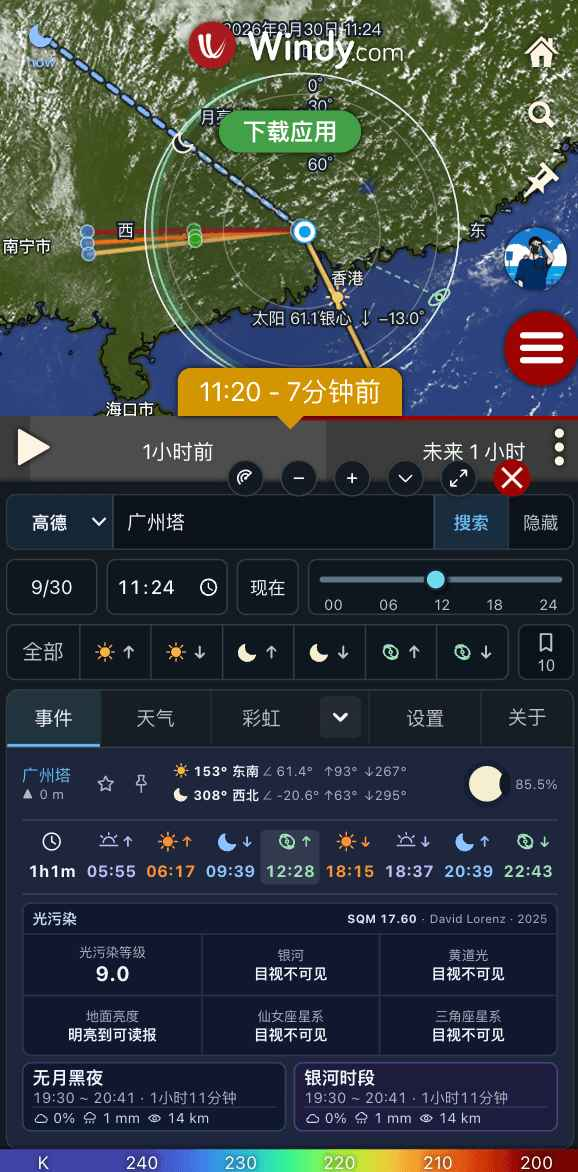
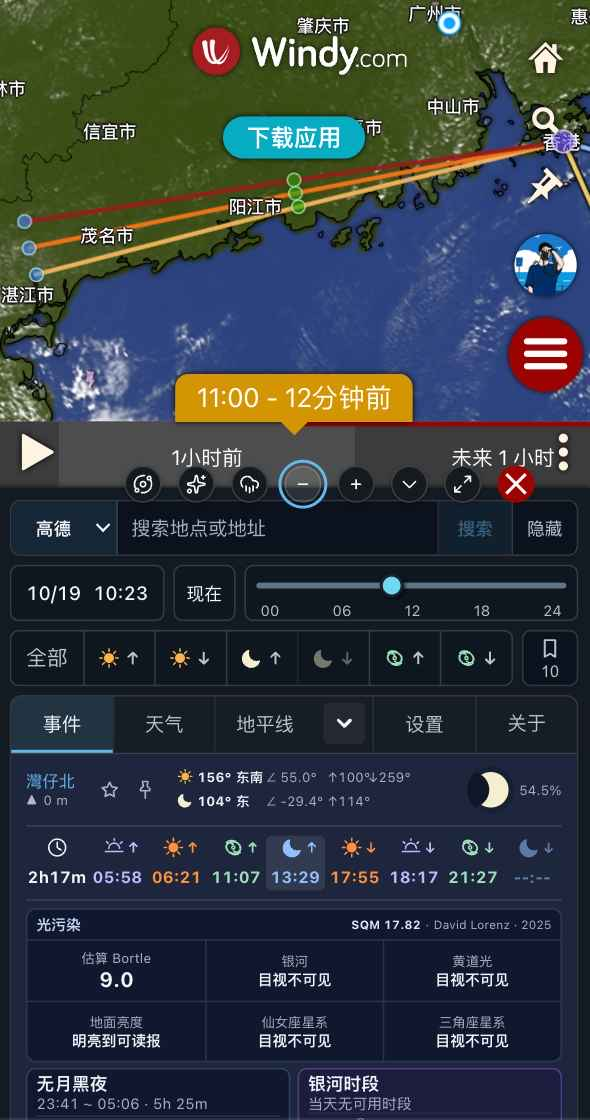
release: 发布 0.12.0 并更新插件截图与双语说明

diff --git a/src/betaReleaseNotesBuild.test.ts b/src/betaReleaseNotesBuild.test.ts
@@ -2,7 +2,7 @@ import { describe, expect, it } from 'vitest';
 
 import { checkPluginUpdate } from './pluginUpdate';
 
-import formalNotesSource from '../release-notes/0.11.4.json?raw';
+import formalNotesSource from '../release-notes/0.12.0.json?raw';
 import betaNotesSource from '../release-notes/beta.json?raw';
 import packageSource from '../package.json?raw';
 import pluginSource from './plugin.svelte?raw';
@@ -19,10 +19,8 @@ describe('beta release notes development asset', () => {
         const formalNotes = JSON.parse(formalNotesSource) as typeof notes;
 
         expect(notes.version).toBe('0.12.0');
-        expect(notes.releasedAt).toBe('2026-10-18');
-        // Development notes evolve independently of the immutable last formal release.
-        expect(formalNotes.version).toBe('0.11.4');
-        expect(formalNotes.releasedAt).toBe('2026-10-13');
+        expect(notes.releasedAt).toBe('2026-10-19');
+        expect(formalNotes).toEqual(notes);
         expect(notes.zh.items.length).toBeGreaterThan(0);
         expect(notes.en.items.length).toBeGreaterThan(0);
         expect(pluginSource).toContain("import betaReleaseNotesUrl from 'virtual:beta-release-notes-url';");
@@ -40,7 +38,7 @@ describe('beta release notes development asset', () => {
 /** Exercise real release files through the same parser used by installed plugins. */
 describe('release note publishing contract', () => {
     const sources = import.meta.glob('../release-notes/*.json', { query: '?raw', import: 'default', eager: true });
-    it.each(['0.9.1', '0.10.1', '0.10.2', '0.10.3', '0.10.4', '0.11.0', '0.11.1', '0.11.2', '0.11.3', '0.11.4'])('loads the full current snapshot for installed %s', async currentVersion => {
+    it.each(['0.9.1', '0.10.1', '0.10.2', '0.10.3', '0.10.4', '0.11.0', '0.11.1', '0.11.2', '0.11.3', '0.11.4', '0.12.0'])('loads the full current snapshot for installed %s', async currentVersion => {
         const manifest = JSON.parse(packageSource);
         const requested: string[] = [];
         const base = `https://raw.githubusercontent.com/bytepoem/windy-plugin-sun-moon-path/update-metadata/${manifest.version}/`;
@@ -55,13 +53,13 @@ describe('release note publishing contract', () => {
                 if (address.endsWith('/latest.json')) {
                     return new Response(JSON.stringify({ ...manifest, notesUrl: `./${manifest.version}/notes.json` }), { status: 200 });
                 }
-                const seriesNotes = Object.entries(sources).filter(([path]) => /0\.11\.[0-4]\.json$/.test(path)).map(([, source]) => JSON.parse(source as string));
+                const seriesNotes = Object.entries(sources).filter(([path]) => /0\.12\.0\.json$/.test(path)).map(([, source]) => JSON.parse(source as string));
                 return new Response(JSON.stringify({ version: manifest.version, seriesNotes }));
             },
         });
         expect(result.status).toBe(currentVersion === manifest.version ? 'current' : 'available');
         expect(result.notesStatus).toBe('loaded');
-        expect(result.seriesNotes.map(note => note.version)).toEqual(['0.11.4', '0.11.3', '0.11.2', '0.11.1', '0.11.0']);
+        expect(result.seriesNotes.map(note => note.version)).toEqual(['0.12.0']);
         expect(requested.slice(1)).toEqual([`${base}notes.json`]);
     });
 

diff --git a/src/pluginUi.test.ts b/src/pluginUi.test.ts
@@ -274,7 +274,7 @@ describe('plugin astronomy loading presentation', () => {
         expect(aboutSource).toContain('{text.aboutAuthorLabel}');
         expect(aboutSource).toContain('{text.aboutVersionLabel}');
         expect(aboutSource).toContain('{text.aboutCurrentVersionDateLabel}');
-        expect(pluginConfigSource).toContain("export const currentVersionReleasedAt = '2026-10-13';");
+        expect(pluginConfigSource).toContain("export const currentVersionReleasedAt = '2026-10-19';");
         expect(aboutSource).toContain("import config, { currentVersionReleasedAt } from './pluginConfig';");
         expect(aboutSource).toContain('class="about-meta__date"');
         expect(aboutSource).toContain('<time datetime={currentVersionReleasedAt}>{currentVersionReleasedAt}</time>');
@@ -300,7 +300,7 @@ describe('plugin astronomy loading presentation', () => {
         expect(aboutSource).toMatch(
             /:global\(\.sun-path-panel\.mobile_ui\) \.about-update button\s*{[\s\S]*?min-height: 32px;/,
         );
-        expect(pluginConfigSource).toContain("version: '0.11.4'");
+        expect(pluginConfigSource).toContain("version: '0.12.0'");
         expect(pluginSource).toMatch(
             /\.summary-tab__badge\s*{[\s\S]*?white-space: nowrap;[\s\S]*?background: var\(--panel-accent\);/,
         );

diff --git a/src/updateSiteBuild.test.ts b/src/updateSiteBuild.test.ts
@@ -12,7 +12,10 @@ it('generates a complete deploy from real notes without bundling secrets or plug
         const manifest = JSON.parse(await readFile(join(output, 'latest.json'), 'utf8'));
         const snapshot = JSON.parse(await readFile(join(output, manifest.notesUrl), 'utf8'));
         const notes = parseUpdateSnapshot(snapshot, manifest.version);
-        expect(notes.map(note => note.version)).toEqual(['0.11.4', '0.11.3', '0.11.2', '0.11.1', '0.11.0']);
+        expect(notes.map(note => note.version)).toEqual(['0.12.0']);
+        const priorMinor = JSON.parse(await readFile(join(output, '0.11.4/notes.json'), 'utf8'));
+        expect(parseUpdateSnapshot(priorMinor, '0.11.4').map(note => note.version))
+            .toEqual(['0.11.4', '0.11.3', '0.11.2', '0.11.1', '0.11.0']);
         const previous = JSON.parse(await readFile(join(output, '0.10.3/notes.json'), 'utf8'));
         expect(parseUpdateSnapshot(previous, '0.10.3')).toHaveLength(4);
         expect(manifest.pluginUrl).toBe(`https://windy-plugins.com/17629746/windy-plugin-sun-moon-path/${manifest.version}/plugin.min.js`);

diff --git a/src/pluginConfig.ts b/src/pluginConfig.ts
@@ -1,11 +1,11 @@
 import type { ExternalPluginConfig } from '@windy/interfaces.d';
 
 /** Keep this date aligned with the published GitHub Release for the configured version. */
-export const currentVersionReleasedAt = '2026-10-13';
+export const currentVersionReleasedAt = '2026-10-19';
 
 const config: ExternalPluginConfig = {
     name: 'windy-plugin-sun-moon-path',
-    version: '0.11.4',
+    version: '0.12.0',
     icon: '☀',
     title: 'Sun & Moon Path',
     description: '在 Windy 上规划日出、日落、月亮、银河、朝晚霞、火烧云与彩虹拍摄。查看天体方位、升落时刻、天空盘与观测窗口，参考光污染、云层距离和天气信息，比较收藏机位。云层遮挡与彩虹视线均为估算，不保证可见。支持中英文。 Plan photography of the Sun, Moon, Milky Way, sunrise and sunset glow, fiery clouds and rainbows with sky views, event times, light pollution, cloud-distance estimates and weather comparisons. Visibility is not guaranteed.',

diff --git a/README_EN.md b/README_EN.md
@@ -16,12 +16,12 @@ Plan photography of sunrise, sunset, the Moon, Milky Way, sunrise and sunset glo
 
 Update checks use Gitee for mainland China or an unknown network region, and GitHub for other known regions. Proxies may affect detection; failed checks can be retried in About. This describes the current repository; released behavior is listed in the release notes.
 
-Current release: **0.11.4** · [Release notes](https://github.com/bytepoem/windy-plugin-sun-moon-path/releases/tag/0.11.4)
+Current release: **0.12.0** · [Release notes](https://github.com/bytepoem/windy-plugin-sun-moon-path/releases/tag/0.12.0)
 
 Paste this URL into Windy's external plugin loader, then open **Sun & Moon Path**:
 
 ```text
-https://windy-plugins.com/17629746/windy-plugin-sun-moon-path/0.11.4/plugin.min.js
+https://windy-plugins.com/17629746/windy-plugin-sun-moon-path/0.12.0/plugin.min.js
 ```
 
 1. **Choose a location:** click the map or enter WGS84 / GCJ-02 coordinates. Chinese place-name search requires your own map-service API Key in Settings.

diff --git a/README.md b/README.md
@@ -14,12 +14,12 @@
 
 ## 安装与上手
 
-当前发布版本：**0.11.4** · [更新记录](https://github.com/bytepoem/windy-plugin-sun-moon-path/releases/tag/0.11.4)
+当前发布版本：**0.12.0** · [更新记录](https://github.com/bytepoem/windy-plugin-sun-moon-path/releases/tag/0.12.0)
 
 将以下地址填入 Windy 的外部插件加载入口，打开 **Sun & Moon Path**：
 
 ```text
-https://windy-plugins.com/17629746/windy-plugin-sun-moon-path/0.11.4/plugin.min.js
+https://windy-plugins.com/17629746/windy-plugin-sun-moon-path/0.12.0/plugin.min.js
 ```
 
 1. **选机位**：点击地图，或输入 WGS84 / GCJ-02 坐标。中文地点搜索需在设置中填写自己的地图服务 API Key。
